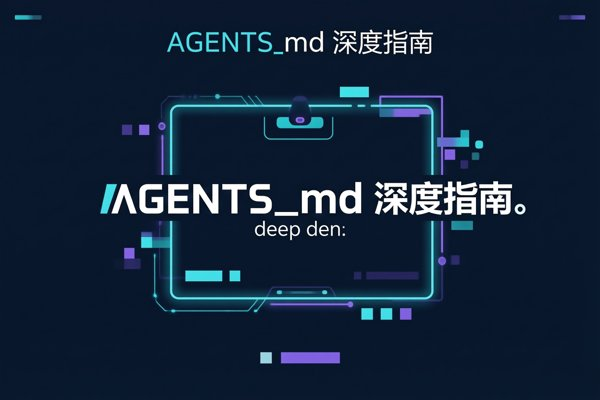
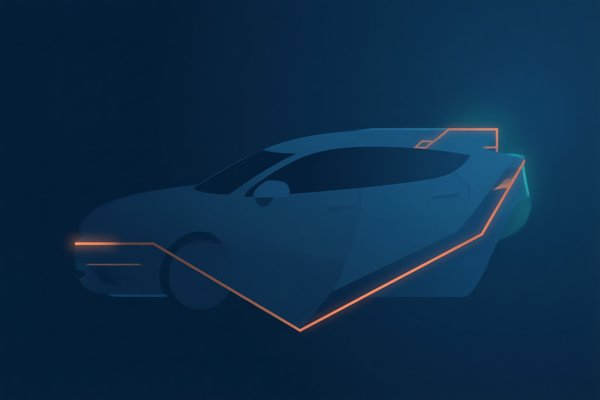
修复: 重新生成封面图（去除文字）

diff --git a/index.html b/index.html
@@ -675,9 +675,9 @@
             
               <a href="/tags/Hermes/">#Hermes</a>
             
-              <a href="/tags/Windows/">#Windows</a>
-            
               <a href="/tags/%E9%A3%9E%E4%B9%A6/">#飞书</a>
+            
+              <a href="/tags/Windows/">#Windows</a>
             
               <a href="/tags/%E5%8D%87%E7%BA%A7%E8%B8%A9%E5%9D%91/">#升级踩坑</a>
             